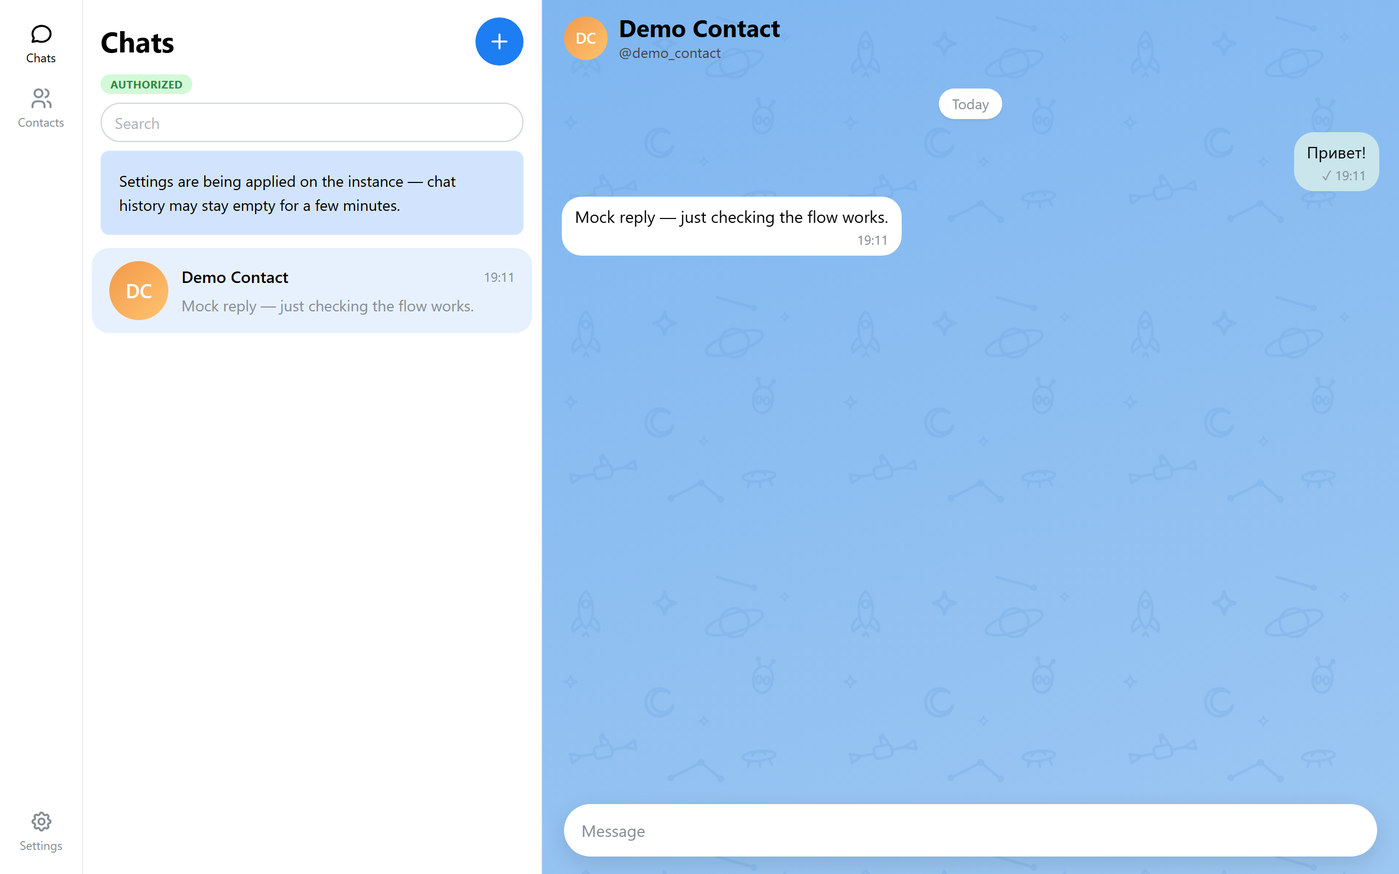
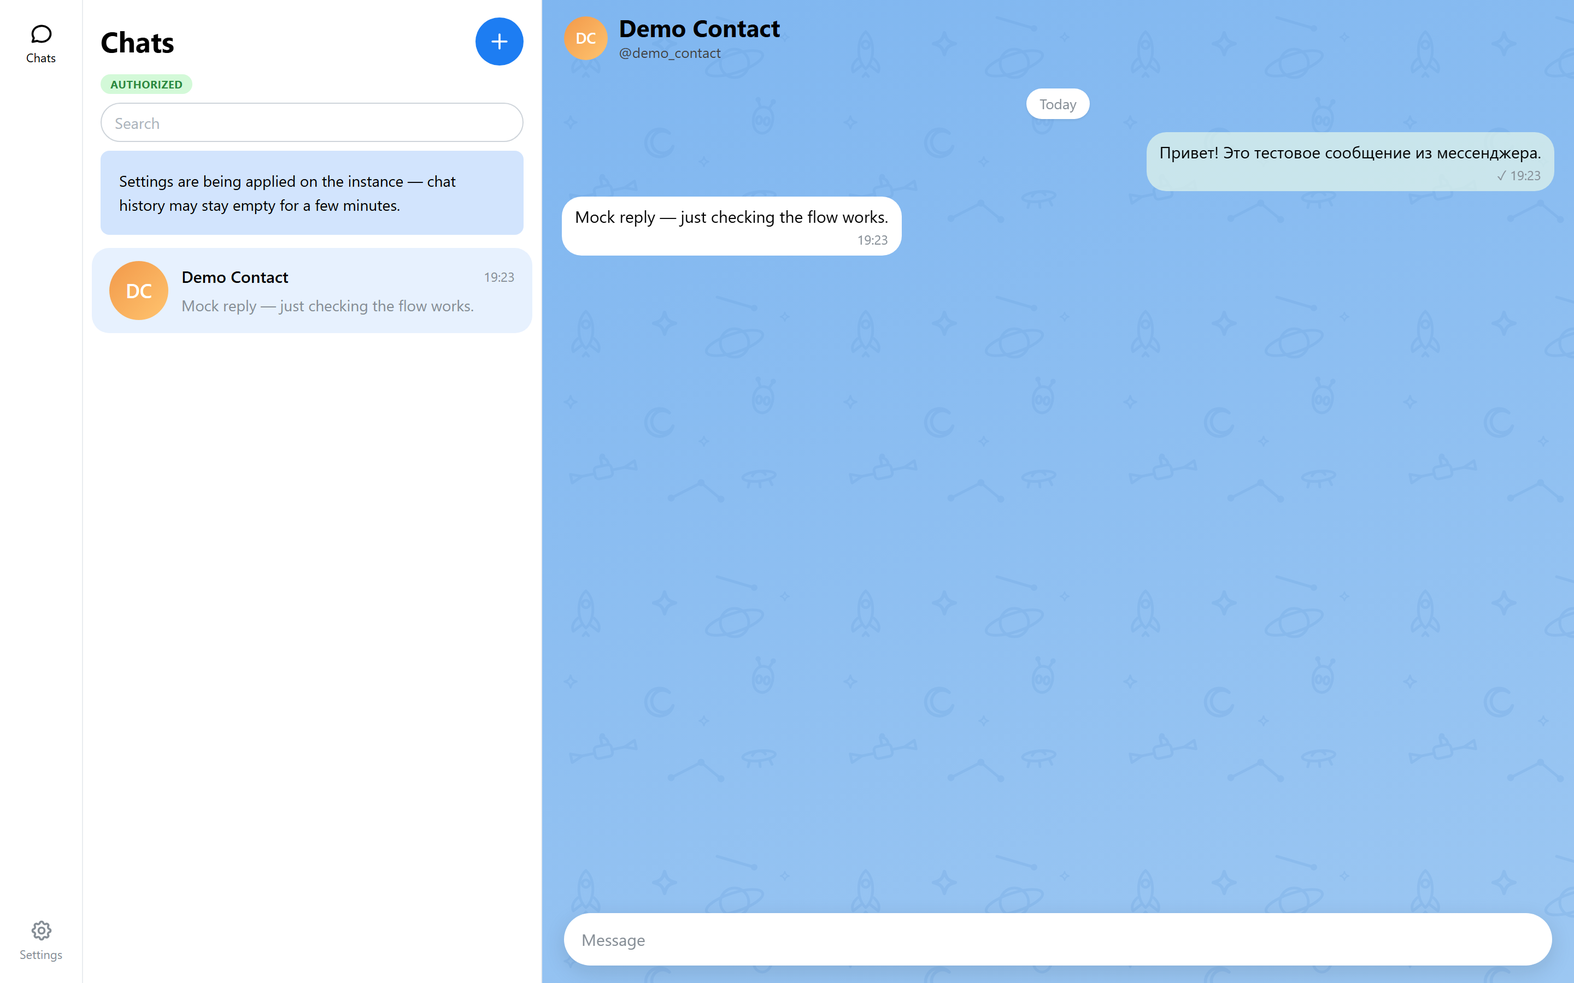
feat: remove the contacts surface and its rail entry

diff --git a/src/widgets/nav-rail/ui/nav-rail.test.tsx b/src/widgets/nav-rail/ui/nav-rail.test.tsx
@@ -5,24 +5,21 @@ import { i18n } from '@/shared/config'
 import { NavRail, type NavRailSection } from './nav-rail'
 
 describe('NavRail', () => {
-  it('renders all three labeled sections', () => {
+  it('renders both labeled sections', () => {
     render(<NavRail active="all" onSelect={() => {}} />)
     expect(
       screen.getByRole('navigation', { name: i18n.messenger.navRail.label }),
     ).toBeInTheDocument()
     expect(screen.getByRole('button', { name: i18n.messenger.navRail.all })).toBeInTheDocument()
     expect(
-      screen.getByRole('button', { name: i18n.messenger.navRail.contacts }),
-    ).toBeInTheDocument()
-    expect(
       screen.getByRole('button', { name: i18n.messenger.navRail.settings }),
     ).toBeInTheDocument()
   })
 
   it('marks the active section as the current page', () => {
-    render(<NavRail active="contacts" onSelect={() => {}} />)
+    render(<NavRail active="settings" onSelect={() => {}} />)
     const current = screen.getByRole('button', { current: 'page' })
-    expect(current).toHaveTextContent(i18n.messenger.navRail.contacts)
+    expect(current).toHaveTextContent(i18n.messenger.navRail.settings)
   })
 
   it('reports the selected section on click', async () => {
@@ -30,13 +27,9 @@ describe('NavRail', () => {
     const onSelect = vi.fn()
     render(<NavRail active="all" onSelect={onSelect} />)
 
-    await user.click(screen.getByRole('button', { name: i18n.messenger.navRail.contacts }))
     await user.click(screen.getByRole('button', { name: i18n.messenger.navRail.settings }))
 
-    expect(onSelect).toHaveBeenCalledTimes(2)
-    expect(onSelect.mock.calls.map(([section]) => section as NavRailSection)).toEqual([
-      'contacts',
-      'settings',
-    ])
+    expect(onSelect).toHaveBeenCalledTimes(1)
+    expect(onSelect.mock.calls.map(([section]) => section as NavRailSection)).toEqual(['settings'])
   })
 })

diff --git a/src/pages/messenger/ui/messenger-page.tsx b/src/pages/messenger/ui/messenger-page.tsx
@@ -3,7 +3,6 @@ import { useMediaQuery } from '@mantine/hooks'
 import { useState } from 'react'
 import { selectActiveChatSummary, useChatsStore } from '@/entities/chats'
 import { useSessionStore } from '@/entities/session'
-import { ContactsModal } from '@/features/contacts-book'
 import { SettingsModal } from '@/features/session-settings'
 import { i18n } from '@/shared/config'
 import { Wallpaper } from '@/shared/ui'
@@ -22,7 +21,6 @@ export function MessengerPage() {
   const reconnecting = useSessionStore((state) => state.reconnecting)
   const { max } = useMantineTheme().other
   const [activeSection, setActiveSection] = useState<NavRailSection>('all')
-  const [contactsOpen, setContactsOpen] = useState(false)
   const [settingsOpen, setSettingsOpen] = useState(false)
 
   const showList = !isMobile || activeChatId === null
@@ -30,18 +28,9 @@ export function MessengerPage() {
 
   const handleSectionSelect = (section: NavRailSection): void => {
     setActiveSection(section)
-    if (section === 'contacts') {
-      setContactsOpen(true)
-      return
-    }
     if (section === 'settings') {
       setSettingsOpen(true)
     }
-  }
-
-  const handleContactsClose = (): void => {
-    setContactsOpen(false)
-    setActiveSection('all')
   }
 
   const handleSettingsClose = (): void => {
@@ -95,7 +84,6 @@ export function MessengerPage() {
           </section>
         ) : null}
       </div>
-      <ContactsModal opened={contactsOpen} onClose={handleContactsClose} />
       <SettingsModal opened={settingsOpen} onClose={handleSettingsClose} />
     </div>
   )

diff --git a/src/shared/api/greenapi/domain/chat.test.ts b/src/shared/api/greenapi/domain/chat.test.ts
@@ -1,6 +1,6 @@
 import { describe, expect, it } from 'vitest'
-import type { GreenApiChatListItem, GreenApiContactInfo, GreenApiContactsItem } from '../types'
-import { mapChatListItem, mapContactInfo, mapContactItem } from './chat'
+import type { GreenApiChatListItem, GreenApiContactInfo } from '../types'
+import { mapChatListItem, mapContactInfo } from './chat'
 
 describe('mapChatListItem', () => {
   it('maps the live Telegram getChats shape', () => {
@@ -52,29 +52,6 @@ describe('mapChatListItem', () => {
       phone: null,
     })
     expect(mapChatListItem({ name: 'No id here' })).toBeNull()
-  })
-})
-
-describe('mapContactItem', () => {
-  it('prefers the phone-book name over the raw name and honors newChatId', () => {
-    const raw: GreenApiContactsItem = {
-      id: '79876543210@c.us',
-      name: '',
-      contactName: 'Иван Царевич Работа',
-      type: 'user',
-      newChatId: '999999@lid',
-    }
-    expect(mapContactItem(raw)).toEqual({
-      id: '999999@lid',
-      name: 'Иван Царевич Работа',
-      type: 'private',
-      username: null,
-      phone: null,
-    })
-  })
-
-  it('rejects entries without an id', () => {
-    expect(mapContactItem({ name: 'Ghost' })).toBeNull()
   })
 })
 

diff --git a/src/pages/messenger/ui/messenger-page.test.tsx b/src/pages/messenger/ui/messenger-page.test.tsx
@@ -132,27 +132,6 @@ describe('MessengerPage', () => {
     ).not.toBeInTheDocument()
   })
 
-  it('opens the contacts modal from the rail and loads contacts', async () => {
-    const user = userEvent.setup()
-    useSessionStore.setState({ credentials: CREDENTIALS, status: 'connected' })
-    useChatsStore.getState().upsertChats([
-      {
-        id: 'chat-1',
-        name: 'Demo Contact',
-        type: 'unknown',
-        username: 'demo_contact',
-        phone: null,
-      },
-    ])
-
-    renderPage()
-
-    await user.click(screen.getByRole('button', { name: i18n.messenger.navRail.contacts }))
-    const dialog = await screen.findByRole('dialog', { name: i18n.contactsBook.title })
-    expect(dialog).toBeInTheDocument()
-    expect(await screen.findByText('Demo Contact')).toBeInTheDocument()
-  })
-
   it('opens the settings modal from the rail and disconnects on demand', async () => {
     const user = userEvent.setup()
     useSessionStore.setState({ credentials: CREDENTIALS, status: 'connected' })

diff --git a/src/widgets/nav-rail/ui/nav-rail.tsx b/src/widgets/nav-rail/ui/nav-rail.tsx
@@ -1,9 +1,9 @@
-import { IconMessageCircle, IconSettings, IconUsers } from '@tabler/icons-react'
+import { IconMessageCircle, IconSettings } from '@tabler/icons-react'
 import type { JSX, ReactNode } from 'react'
 import { i18n } from '@/shared/config'
 import classes from './nav-rail.module.css'
 
-export type NavRailSection = 'all' | 'contacts' | 'settings'
+export type NavRailSection = 'all' | 'settings'
 
 export interface NavRailProps {
   readonly active: NavRailSection
@@ -33,7 +33,6 @@ export function NavRail({ active, onSelect }: NavRailProps) {
     <nav className={classes.rail} aria-label={i18n.messenger.navRail.label}>
       <div className={classes.group}>
         {renderItem('all', <IconMessageCircle className={classes.icon} aria-hidden />)}
-        {renderItem('contacts', <IconUsers className={classes.icon} aria-hidden />)}
       </div>
       <div className={classes.group}>
         {renderItem('settings', <IconSettings className={classes.icon} aria-hidden />)}

diff --git a/src/shared/api/greenapi/domain/chat.ts b/src/shared/api/greenapi/domain/chat.ts
@@ -1,4 +1,4 @@
-import type { GreenApiChatListItem, GreenApiContactInfo, GreenApiContactsItem } from '../types'
+import type { GreenApiChatListItem, GreenApiContactInfo } from '../types'
 
 export type ChatType = 'private' | 'group' | 'channel' | 'unknown'
 
@@ -38,20 +38,6 @@ export function mapChatListItem(raw: GreenApiChatListItem): Chat | null {
     type: normalizeChatType(raw.type),
     username: raw.username ?? null,
     phone: raw.phoneNumber ?? null,
-  }
-}
-
-export function mapContactItem(raw: GreenApiContactsItem): Chat | null {
-  const id = raw.newChatId ?? raw.id
-  if (id === undefined || id.length === 0) {
-    return null
-  }
-  return {
-    id,
-    name: resolveName(raw.contactName, raw.name, id),
-    type: normalizeChatType(raw.type),
-    username: null,
-    phone: null,
   }
 }
 

diff --git a/src/shared/config/i18n.ts b/src/shared/config/i18n.ts
@@ -25,7 +25,6 @@ export const i18n = {
     navRail: {
       label: 'Navigation',
       all: 'Chats',
-      contacts: 'Contacts',
       settings: 'Settings',
     },
     list: {
@@ -61,12 +60,6 @@ export const i18n = {
       sendAction: 'Send',
       offlineTooltip: 'You are offline. Reconnect to send messages.',
     },
-  },
-  contactsBook: {
-    title: 'Contacts',
-    loadFailed: 'Could not load contacts.',
-    retryAction: 'Retry',
-    empty: 'No contacts found on this instance.',
   },
   sessionSettings: {
     title: 'Settings',

diff --git a/src/entities/chat/index.ts b/src/entities/chat/index.ts
@@ -1,3 +1,3 @@
-export { ChatAvatar, type ChatAvatarProps } from './ui/avatar'
+export type { ChatAvatarProps } from './ui/avatar'
 export { ChatAvatarWithUrl, type ChatAvatarWithUrlProps } from './ui/avatar-with-url'
 export { ChatRow, type ChatRowModel } from './ui/chat-row'

diff --git a/src/shared/api/greenapi/domain/index.ts b/src/shared/api/greenapi/domain/index.ts
@@ -1,4 +1,4 @@
-export { type Chat, type ChatType, mapChatListItem, mapContactInfo, mapContactItem } from './chat'
+export { type Chat, type ChatType, mapChatListItem, mapContactInfo } from './chat'
 export {
   type Message,
   type MessageDeliveryStatus,

diff --git a/src/features/pick-chat/index.ts b/src/features/pick-chat/index.ts
@@ -1,3 +1,2 @@
 export type { NewChatDraft, NewChatErrorCode, NewChatResult } from './create-new-chat'
-export { createNewChat } from './create-new-chat'
 export { NewChatModal } from './ui/new-chat-modal'

diff --git a/docs/PROGRESS.md b/docs/PROGRESS.md
@@ -23,13 +23,15 @@ Statuses: `todo` / `in-progress` / `blocked:reason` / `done`.
 | T11 final QA + submission | D5 | todo | — | runs last, after T12/T13 polish |
 | T12 Tabler icon migration | D5 | done | feat/t12-tabler-icons → squash-merged to `main` | `@tabler/icons-react` 3.51.0; all hand-authored inline SVG icons swapped (rail chats/contacts/settings, FAB plus, composer mic/send, mobile back chevron, jump-to-latest, failed-bubble retry ↻); status ticks + doodle wallpaper stay custom (domain state / pattern art); bundle 156.6KB gzip initial unchanged (per-icon tree-shaking); 306 tests + 16 e2e green; README screenshots re-captured |
 | T13 Props typing refactor (`interface` → `type`) | D5 | todo | — | user request: type aliases for props/object shapes (interface is OOP declaration-merging surface, unused here); lock the style via a Biome rule |
+| T14 Contacts surface removal | D5 | done | on `main` (direct, user-requested) | user: "contacts is useless in this app" — verified correct: `getContacts` reads the instance's WhatsApp-era server-side contact book, empty `[]` on the Telegram instance, and the modal only invited "is this broken?" (D62). Removed: `features/contacts-book` slice, rail contacts item (`NavRailSection` now `'all' \| 'settings'`, IconUsers gone), `contactsBook` i18n block, `mapContactItem` mapper + tests. Kept: `getContacts` facade + MSW handler (T1's 12-method contract). Adopted the orphaned composer mic-removal WIP found in the tree (D61 follow-through, own commit first). Rail = Chats + Settings; 300 tests; bundle 156.6KB; screenshots re-captured from the rebuilt container (D59 recipe) |
+| T15 final QA + submission | D5 | todo | — | renamed from T11: runs last, after T13/T14 |
 
 ## Current handoff (update this block at session end)
 
-- **Last completed:** **T12 Tabler icon migration (2026-11-13, feat/t12-tabler-icons → squash-merged to `main`, deployed — details in D59)**: every hand-authored inline SVG icon replaced with `@tabler/icons-react` 3.51.0 — nav rail (`IconMessageCircle`/`IconUsers`/`IconSettings`), FAB plus (`IconPlus`), composer mic/send (`IconMicrophone`/`IconSend`), mobile back chevron (`IconChevronLeft`), jump-to-latest (`IconArrowDown`), failed-bubble retry (`IconRotateClockwise2` replaces the ↻ glyph). Status ticks and the doodle wallpaper stay custom by design — domain-state marks and pattern art, not icons. Bundle unchanged at **156.6KB gzip initial** (per-icon tree-shaking, `sideEffects:false`); lint/typecheck/307 tests/16 e2e/check:arch/check:knip/check:bundle all green; README screenshots re-captured from the built container in mock mode (connect/messenger/mobile) — the T10.5 staleness noted for T11 is resolved.
-- **Next up:** **T13 (`interface` → `type` props refactor)** then **T11 (final QA + submission) runs last** so the submission captures the final UI. Scope per docs/TASKS.md T13: sweep `src/**` + `e2e/**` `interface` → `type` aliases for props/object shapes, lock the style via a Biome rule (`useConsistentTypeDefinitions`), all gates green. Scope per docs/TASKS.md T11 + PLAN §11: full demo script on the real Telegram instance (credentials live in the user's private notes / runtime localStorage — never commit them), CHANGELOG, tag v1.0.0, demo video (mock or live, token never visible), submission checklist, README claims verified item-by-item, submission text for hr@green-api.com.
-- **Blockers / open questions:** none. Everything on the board except T11 is done; the deployed URL is live and checklist-green. One user-side step pending: the dashboard healthcheck re-entry (needs their Railway admin access, not CLI auth).
-- **Notes for T13:** one less interface exists now — T12 removed a pre-existing duplicate `NavRailProps` declaration in `nav-rail.tsx` (interface-merging accident) that would have tripped a mechanical sweep. **Notes for T11:** screenshots are fresh (T12 re-captured them — rail/FAB/composer icons current). Unit suite reports **307**. The composer autosize now clamps to the empty single-line height (D60) — if the input-height report recurs, it is not the autosize. D54's process fix (global `work-planning` skill updated) applies to any future planning sessions. Automated-gate sequence unchanged (D31/D34/D36/D46 documented limit-test workarounds apply). Railway CLI stays unauthenticated globally — irrelevant: the GitHub-connected service auto-deploys and the deploy config now lives in dashboard settings (D53). Real-instance QA must respect D9 (settings settle ~5 min), D10 (3-chat free-plan cap), and the readChat caveat (marks the real account's chats read); nickname resolution on the real instance is still live-unverified (D55/D56 — probe during T11).
+- **Last completed:** **T14 contacts-surface removal + composer mic cleanup (2026-11-13, on `main`)**: the user's real-instance walkthrough showed the Contacts modal permanently empty ("No contacts found on this instance") — root-cause: GREEN-API's `getContacts` serves the instance-side WhatsApp-style contact book, which stays empty on Telegram instances (the saved doc itself says to retry on `[]`); user judged the whole surface useless (D62 — correct, the graded task never asked for a contacts book). Removed: `features/contacts-book` slice (modal + tests + css), the rail's Contacts item (`NavRailSection` = `'all' | 'settings'`, `IconUsers` import gone), `contactsBook` i18n block, `mapContactItem` mapper (+ its unit tests). Kept by contract: the `getContacts` facade + rate-queue entry + MSW handler (T1's 12-method API surface, D43 rationale unchanged). knip then flagged 3 orphaned exports — `createNewChat` unexported from the pick-chat barrel (internal relative use), `ChatAvatar` unexported from `entities/chat` (internal use via `ChatAvatarWithUrl`), `mapContactItem` deleted. Also adopted the orphaned composer WIP found uncommitted in the tree (mic placeholder removal — D61's resolution, verified coherent: 307 tests green before adoption) as its own commit first. Rail is now **Chats + Settings** only. Gates: lint/typecheck/**300 tests**/check:arch/check:knip/build/check:bundle (156.6KB gzip initial) all green; README screenshots re-captured from the rebuilt container (D59 recipe, mock mode) — messenger/mobile shots show the two-item rail and mic-less composer.
+- **Next up:** **T13 (`interface` → `type` props refactor)** then **T15 (final QA + submission) runs last** so the submission captures the final UI. Scope per docs/TASKS.md T13: sweep `src/**` + `e2e/**` `interface` → `type` aliases for props/object shapes, lock the style via a Biome rule (`useConsistentTypeDefinitions`), all gates green. Scope per docs/TASKS.md T11 + PLAN §11: full demo script on the real Telegram instance (credentials live in the user's private notes / runtime localStorage — never commit them), CHANGELOG, tag v1.0.0, demo video (mock or live, token never visible), submission checklist, README claims verified item-by-item, submission text for hr@green-api.com. T15 note: push this commit to redeploy (GitHub-connected service) and re-verify the live checklist on the two-item rail.
+- **Blockers / open questions:** none. Everything except T13/T15 is done; the deployed URL is live but runs the pre-T14 bundle until the next push. One user-side step pending: the dashboard healthcheck re-entry (needs their Railway admin access, not CLI auth).
+- **Notes for T13:** one less interface exists now — T12 removed a pre-existing duplicate `NavRailProps` declaration in `nav-rail.tsx` (interface-merging accident) that would have tripped a mechanical sweep. **Notes for T15:** screenshots are fresh (re-captured post-T14). Unit suite reports **300** (contacts-modal tests deleted with the feature; composer tests rewritten mic-less). D62 documents why getContacts has no UI consumer — do not "restore" it during a knip sweep; the facade is contract-kept intentionally. The composer autosize clamps to the empty single-line height (D60/D61) — the pill is now sized by the textarea alone. Automated-gate sequence unchanged (D31/D34/D36/D46 documented limit-test workarounds apply). Railway CLI stays unauthenticated globally — irrelevant: the GitHub-connected service auto-deploys and the deploy config now lives in dashboard settings (D53). Real-instance QA must respect D9 (settings settle ~5 min), D10 (3-chat free-plan cap), and the readChat caveat (marks the real account's chats read); nickname resolution on the real instance is still live-unverified (D55/D56 — probe during T15).
 - **Live instance state:** Telegram instance authorized, webhook flags currently OFF — first live connect through the bootstrap flips them
 
 ## Session log (append-only)
@@ -127,3 +129,4 @@ Statuses: `todo` / `in-progress` / `blocked:reason` / `done`.
 - **D59** (T12) — **Tabler icon mapping and packaging facts.** `@tabler/icons-react` 3.51.0 ships per-icon ESM modules with `sideEffects:false`, so root-barrel imports tree-shake to only the used glyphs — bundle verified unchanged (156.6KB gzip initial). Glyph mapping: `IconMessageCircle`/`IconUsers`/`IconSettings` (nav rail), `IconPlus` (FAB), `IconMicrophone`/`IconSend` (composer), `IconChevronLeft` (mobile back), `IconArrowDown` (jump pill), `IconRotateClockwise2` (failed-bubble retry, matches the old `↻`). Defaults: outline stroke 2 (inside the visual-spec 1.5–2 range — replaces the FAB's ad-hoc 2.4) and size 24, so sizes are pinned explicitly per context (14–22px). The mic glyph's SVG `<title>` moved to a native `title` on the wrapping `<span>` (same tooltip, span stays `aria-hidden`; the send button keeps its `aria-label` — composer a11y unchanged). Status ticks (`✓✓`/`✕`) and the doodle wallpaper stay hand-authored: domain-state marks and pattern art, not icons (T12 scope carve-out). Component tests needed zero changes (all selectors are role/label/class-based — icon internals never asserted); e2e unaffected. Process: the screenshot capture reused the T10 recipe (built container via `vite preview` + Playwright script in temp, never committed — same policy as the D57 probe scripts; Vite binds `localhost` only, D38 applies to preview too). Bonus: a pre-existing duplicate `export interface NavRailProps` in `nav-rail.tsx` (interface-merging accident, dead weight) was removed — one less landmine for T13's sweep.
 - **D60** (composer autosize finding) — The "input shrinks when typing" report could NOT be reproduced: Chromium, Firefox, and WebKit (Playwright builds, covering Blink/Gecko/WebKit layout engines) at DPR 1/1.25/1.5/2 all report a constant 36px textarea / 48px pill through empty → typed → multiline → cleared. Conclusion: the user's browser computes the typed single-line strut fractionally lower than the empty `rows=1` intrinsic height (environment-specific rounding — Windows display scaling or zoom interplay), i.e. `scrollHeight` measured with text came out 1–3px below the empty baseline. Fix is engine-agnostic rather than a hunt for the exact browser math: the autosize captures the empty single-line height once at mount (`emptyHeightRef`, captured only while the value is empty so remounts with prefilled text degrade to the old behavior) and every pass sets `max(baseline, scrollHeight)` — a shrink below the empty state is now impossible in ANY engine, multi-line growth untouched. Test technique: jsdom has no layout (`scrollHeight` always 0), so the regression test spies on `HTMLTextAreaElement.prototype.scrollHeight` BEFORE render (the mount-time baseline capture runs inside `useLayoutEffect` — an instance-level defineProperty after render misses it; this cost one red run) with per-state values (empty 44 / typed 36 / multiline 80) and asserts 44 → 80 → 44. Playwright firefox/webkit browsers were installed for the probe (devDep unchanged — they live in the local ms-playwright cache, no lockfile impact). Deploy probe scripts stay in temp per the D57/D59 policy.
 - **D61** (corrects D60's root-cause theory) — The user's follow-up ("40px empty vs 36px typed") pins the real cause of the composer height change: **the mic→send swap, not textarea metrics**. The pill height = max(textarea 36px, glyph column) + 12px padding; the mic placeholder contributed 36px box + 4px margin-bottom = 40px, while the send `ActionIcon size="md"` (28px in Mantine 9) + 4px = 36px — the pill shrank 4px on the first typed character. The earlier engine/DPR probes missed it because they measured the *textarea* (constant 36px — correct) and only sampled the form height in the typed state. Resolution per user decision: the mic is removed entirely (voice messages are out of the graded scope; the visual-spec's mic mention stays as written history), so the pill is sized by the textarea alone and measured constant (48px) in every state. The D60 autosize baseline clamp remains as harmless hardening. Lesson: probe BOTH states of every element involved in a conditional render before blaming measurements — and a user-provided pixel number beats a differential that "can't reproduce".
+- **D62** (T14, user decision) — **The Contacts surface is removed; `getContacts` stays a contract facade without a UI consumer.** The user's real-instance walkthrough hit the modal's permanent "No contacts found on this instance": GREEN-API's `getContacts` serves the instance-side WhatsApp-era contact book, which is empty on Telegram instances (the saved doc literally instructs "при получении пустого массива данных — повторить вызов метода"; peer chats surface via `getChats`/webhooks instead). The user judged the feature useless — correct on three grounds: the graded task (taskdesc steps 2–3) never asks for a contacts book (scope discipline, PLAN §3), the empty modal invites "is this broken?" reviewer questions, and there is no client-side fix. Removal set: `features/contacts-book` slice, rail Contacts item (`NavRailSection` narrowed to `'all' | 'settings'`), `contactsBook` i18n, `mapContactItem` + tests. Contract-kept: the `getContacts` facade + rate-queue entry + MSW handler (T1's 12-method API surface — D43's "facade kept regardless of importers" rationale now has a second instance). knip policy note: if a future sweep flags the facade, do not delete it — extend the D43-style contract exemption instead. Also: an unrelated composer mic-removal WIP was found uncommitted in the tree (orphaned, coherent, 307-test green) and was adopted as a separate commit before the contacts removal — session hygiene: adopt-or-ask, never bundle unknown WIP into unrelated commits.| 2026-11-13 | t14-contacts-removal (main) | User verdict after the real-instance walkthrough: the Contacts surface is useless (modal permanently empty — getContacts serves the instance-side WhatsApp-era contact book, [] on Telegram instances; the graded task never asks for a contacts book). Removed: features/contacts-book slice, rail Contacts item (NavRailSection = 'all' | 'settings', IconUsers gone), contactsBook i18n block, mapContactItem mapper + tests; kept the getContacts facade + MSW handler as the T1 12-method contract (D62). knip sweep after removal: createNewChat + ChatAvatar unexported (internal-only), mapContactItem deleted. Also adopted the orphaned composer mic-removal WIP found uncommitted in the tree as its own prior commit (c7ed683); rail is now Chats + Settings; README screenshots re-captured from the rebuilt container (two-item rail, mic-less composer) | lint/typecheck/300 tests/check:arch/check:knip/build/check:bundle green (156.6KB gzip initial); push → Railway redeploy pending in this session; D62 records the decision + knip policy note |
